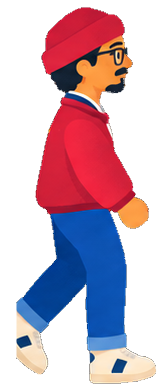
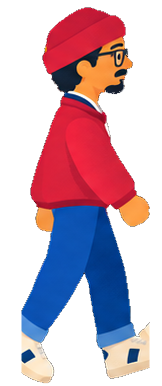
Walk: follow the construction order, add skeleton rig overlay
Frames are matched to the 12 construction poses (duplicate "7" dropped),
and a joint skeleton from the pose tracker is drawn over the walk with
Skeleton and Character art toggles in Rig Lab.

Claude-Session: https://claude.ai/code/session_015ihGvpgw6SJdfCAPaeHAJK

diff --git a/public/js/main.js b/public/js/main.js
@@ -696,6 +696,8 @@ function syncWalkLab() {
   $('labWalkSizeOut').textContent = `${Math.round($('charScale').value * 100)}%`;
 }
 $('labWalkOn').addEventListener('input', (e) => { walk.on = e.target.checked; });
+$('labWalkSkel').addEventListener('input', (e) => { walk.skel = e.target.checked; });
+$('labWalkArt').addEventListener('input', (e) => { walk.art = e.target.checked; });
 $('labWalkTravel').addEventListener('input', (e) => { walk.travel = e.target.checked; });
 $('labWalkSpeed').addEventListener('input', (e) => { walk.speed = Number(e.target.value); syncWalkLab(); });
 $('labWalkBlend').addEventListener('input', (e) => { walk.blend = Number(e.target.value); syncWalkLab(); });
@@ -898,9 +900,38 @@ function registerViews(p, def) {
 const thumbRenderer = createRenderer();
 const basicCanvas = document.createElement('canvas');
 const WALK_FRAMES = 12, WALK_W = 162, WALK_H = 386, WALK_FPS = 12;
-const WALK_STAND = 7;      // the frame with the legs closest together, shown when walking is off
+const WALK_STAND = 11;      // the frame with the legs closest together, shown when walking is off
 const WALK_STEP_H = 0.021; // ground covered per frame, in character heights, so the feet don't slide
-const walk = { on: true, travel: true, speed: 1, blend: 0.4, phase: 0, dist: 0, last: 0 };
+const walk = { on: true, travel: true, speed: 1, blend: 0.4, phase: 0, dist: 0, last: 0, art: true, skel: true };
+// Joint positions for each walk frame (in sprite pixels), from the pose tracker run on the drawings.
+let walkJoints = null;
+fetch('characters/walk-skeleton.json').then((r) => r.json()).then((j) => { walkJoints = j; }).catch(() => {});
+const WALK_BONES = [['head', 'neck'], ['neck', 'hip'], ['neck', 'fElbow'], ['fElbow', 'fWrist'], ['hip', 'fKnee'], ['fKnee', 'fAnkle'], ['fAnkle', 'fToe'],
+  ['neck', 'nElbow'], ['nElbow', 'nWrist'], ['hip', 'nKnee'], ['nKnee', 'nAnkle'], ['nAnkle', 'nToe']];
+function drawWalkSkeleton(target, i, f, ox, oy, k, alpha) {
+  if (!walkJoints) return;
+  const A = walkJoints[i], B = walkJoints[(i + 1) % WALK_FRAMES];
+  const J = {};
+  for (const n of Object.keys(A)) J[n] = [ox + (A[n][0] + (B[n][0] - A[n][0]) * f) * k, oy + (A[n][1] + (B[n][1] - A[n][1]) * f) * k];
+  target.save();
+  target.globalAlpha = alpha;
+  target.lineCap = 'round';
+  for (const [a, b] of WALK_BONES) {
+    const far = a[0] === 'f' || b[0] === 'f';
+    target.strokeStyle = far ? 'rgba(80,190,255,.95)' : 'rgba(255,255,255,.98)';
+    target.lineWidth = Math.max(2, 7 * k);
+    target.beginPath(); target.moveTo(...J[a]); target.lineTo(...J[b]); target.stroke();
+  }
+  const r = Math.max(3, 8 * k);
+  target.beginPath(); target.arc(J.head[0], J.head[1], 38 * k, 0, Math.PI * 2);
+  target.strokeStyle = 'rgba(255,255,255,.9)'; target.lineWidth = Math.max(2, 4 * k); target.stroke();
+  for (const [n, p] of Object.entries(J)) {
+    target.beginPath(); target.arc(p[0], p[1], n === 'hip' ? r * 1.4 : r, 0, Math.PI * 2);
+    target.fillStyle = n === 'hip' ? '#ff5a3c' : '#ffb62e'; target.fill();
+    target.lineWidth = Math.max(1.5, 2.5 * k); target.strokeStyle = '#1b1b22'; target.stroke();
+  }
+  target.restore();
+}
 // Called once per rendered frame: advances the walk phase and the distance travelled.
 function walkTick(now) {
   const dt = walk.last ? Math.min((now - walk.last) / 1000, 0.1) : 0;
@@ -937,14 +968,15 @@ function drawCharacter(target, W, H, r, { mul = 1, alpha = 1, fitH = H, shift = 
         target.drawImage(walkSheet, i * WALK_W, 0, WALK_W, WALK_H, cx - w / 2, b.y1 - h, w, h);
       };
       target.save();
-      if (!walk.on) at(WALK_STAND, alpha);
-      else {
-        const i = Math.floor(walk.phase) % WALK_FRAMES, f = walk.phase - Math.floor(walk.phase);
+      const i = walk.on ? Math.floor(walk.phase) % WALK_FRAMES : WALK_STAND;
+      const f = walk.on ? walk.phase - Math.floor(walk.phase) : 0;
+      if (walk.art) {
         at(i, alpha);
         // Fade into the next drawing over the last part of each frame, so slow walks stay smooth.
-        const t = walk.blend > 0 ? Math.max(0, (f - (1 - walk.blend)) / walk.blend) : 0;
+        const t = walk.on && walk.blend > 0 ? Math.max(0, (f - (1 - walk.blend)) / walk.blend) : 0;
         if (t > 0) at((i + 1) % WALK_FRAMES, alpha * t * t * (3 - 2 * t));
       }
+      if (walk.skel) drawWalkSkeleton(target, i, f, cx - w / 2, b.y1 - h, h / WALK_H, alpha);
       target.restore();
     }
     return P;

diff --git a/public/index.html b/public/index.html
@@ -418,6 +418,8 @@
   <section class="lab-sec hidden" id="labWalk">
     <h3>Walk</h3>
     <label class="row">Walking<small>off = standing still</small><input type="checkbox" class="switch" id="labWalkOn" checked></label>
+    <label class="row">Skeleton<small>joints and bones</small><input type="checkbox" class="switch" id="labWalkSkel" checked></label>
+    <label class="row">Character art<small>off = skeleton only</small><input type="checkbox" class="switch" id="labWalkArt" checked></label>
     <label class="row">Travel across the scene<small>off = walk in place</small><input type="checkbox" class="switch" id="labWalkTravel" checked></label>
     <div class="row slider-row"><span>Speed</span><output id="labWalkSpeedOut"></output><input type="range" id="labWalkSpeed" min="0.25" max="2.5" step="0.05" value="1"></div>
     <div class="row slider-row"><span>Smooth blend</span><output id="labWalkBlendOut"></output><input type="range" id="labWalkBlend" min="0" max="1" step="0.05" value="0.4"></div>
